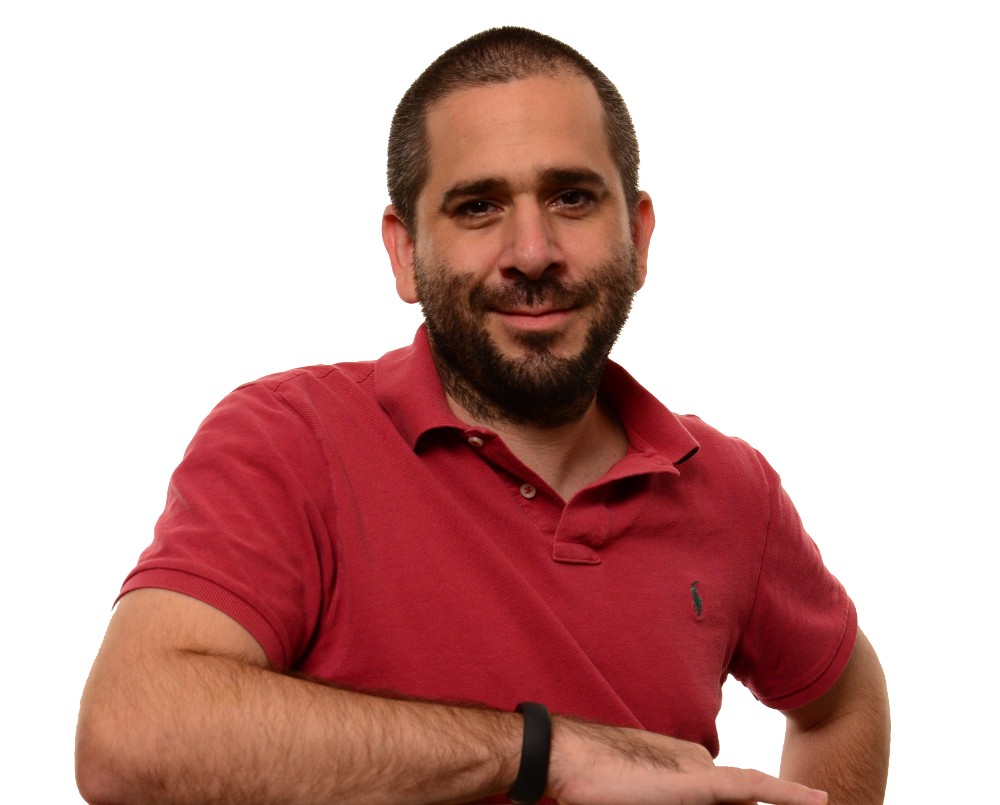
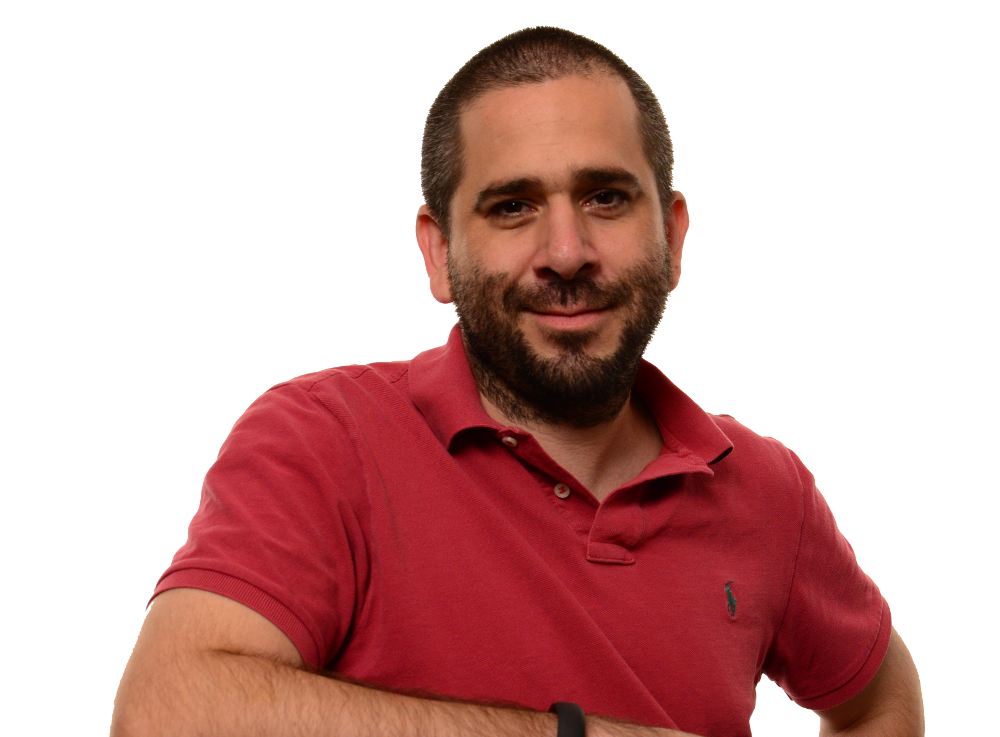
Resize focus images

diff --git a/javascript/wdi-5.js b/javascript/wdi-5.js
@@ -18,7 +18,7 @@ function focus_on_member(mem_inx){
         member_node_left.append(contact_section);
         member_node_left.append($('<div class="row"></div>'));
 
-        member_node_left.append($('<img id="focus-member-image" class="six columns"></img>').attr('src', current_member.images.image));
+        member_node_left.append($('<img id="focus-member-image" class="seven columns"></img>').attr('src', current_member.images.image));
         
         
         var member_node_right = $('<div id="focus-member-right" class="seven columns offset-by-two"></div>');

diff --git a/stylesheets/styles.css b/stylesheets/styles.css
@@ -110,7 +110,7 @@ ul{
 
 
 #focus-team-member{
-    min-height: 29em; 
+    min-height: 28em; 
     border-top: 3px solid gray;
     position: relative;
 }
